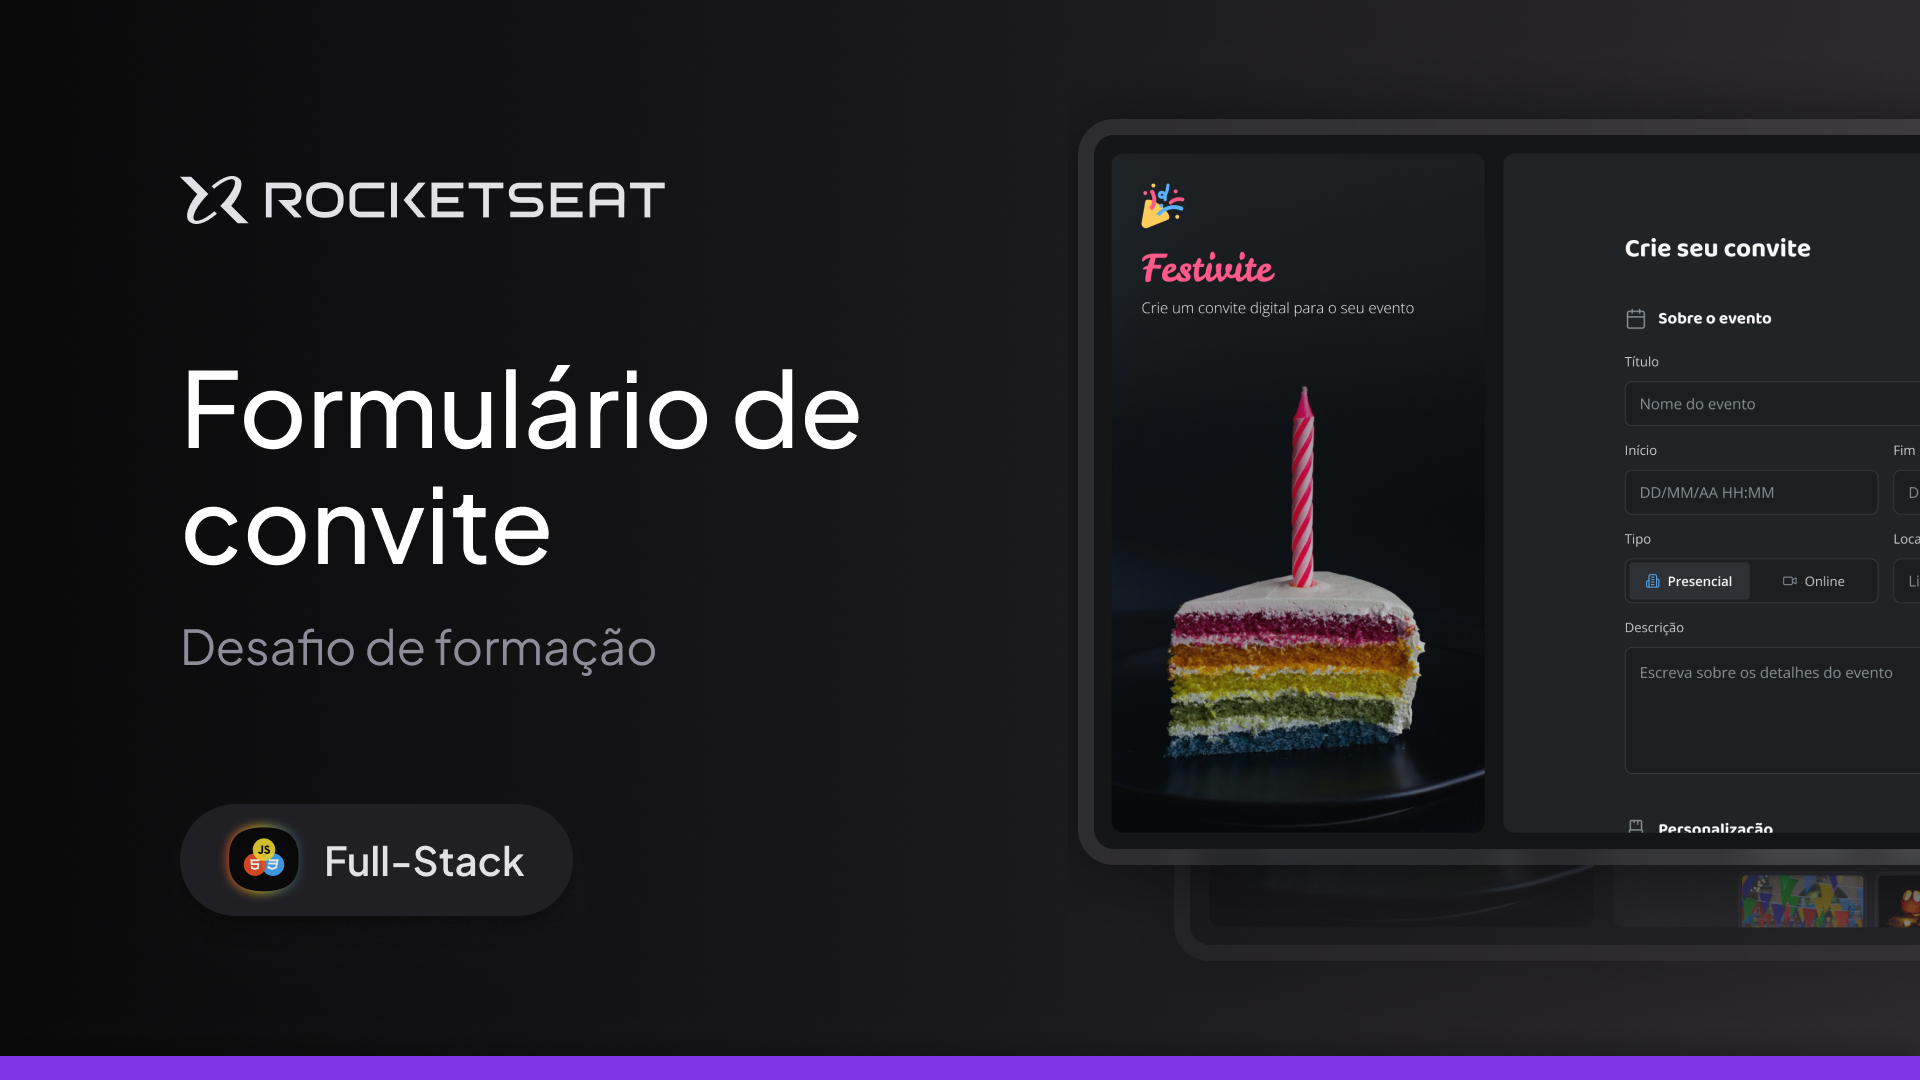
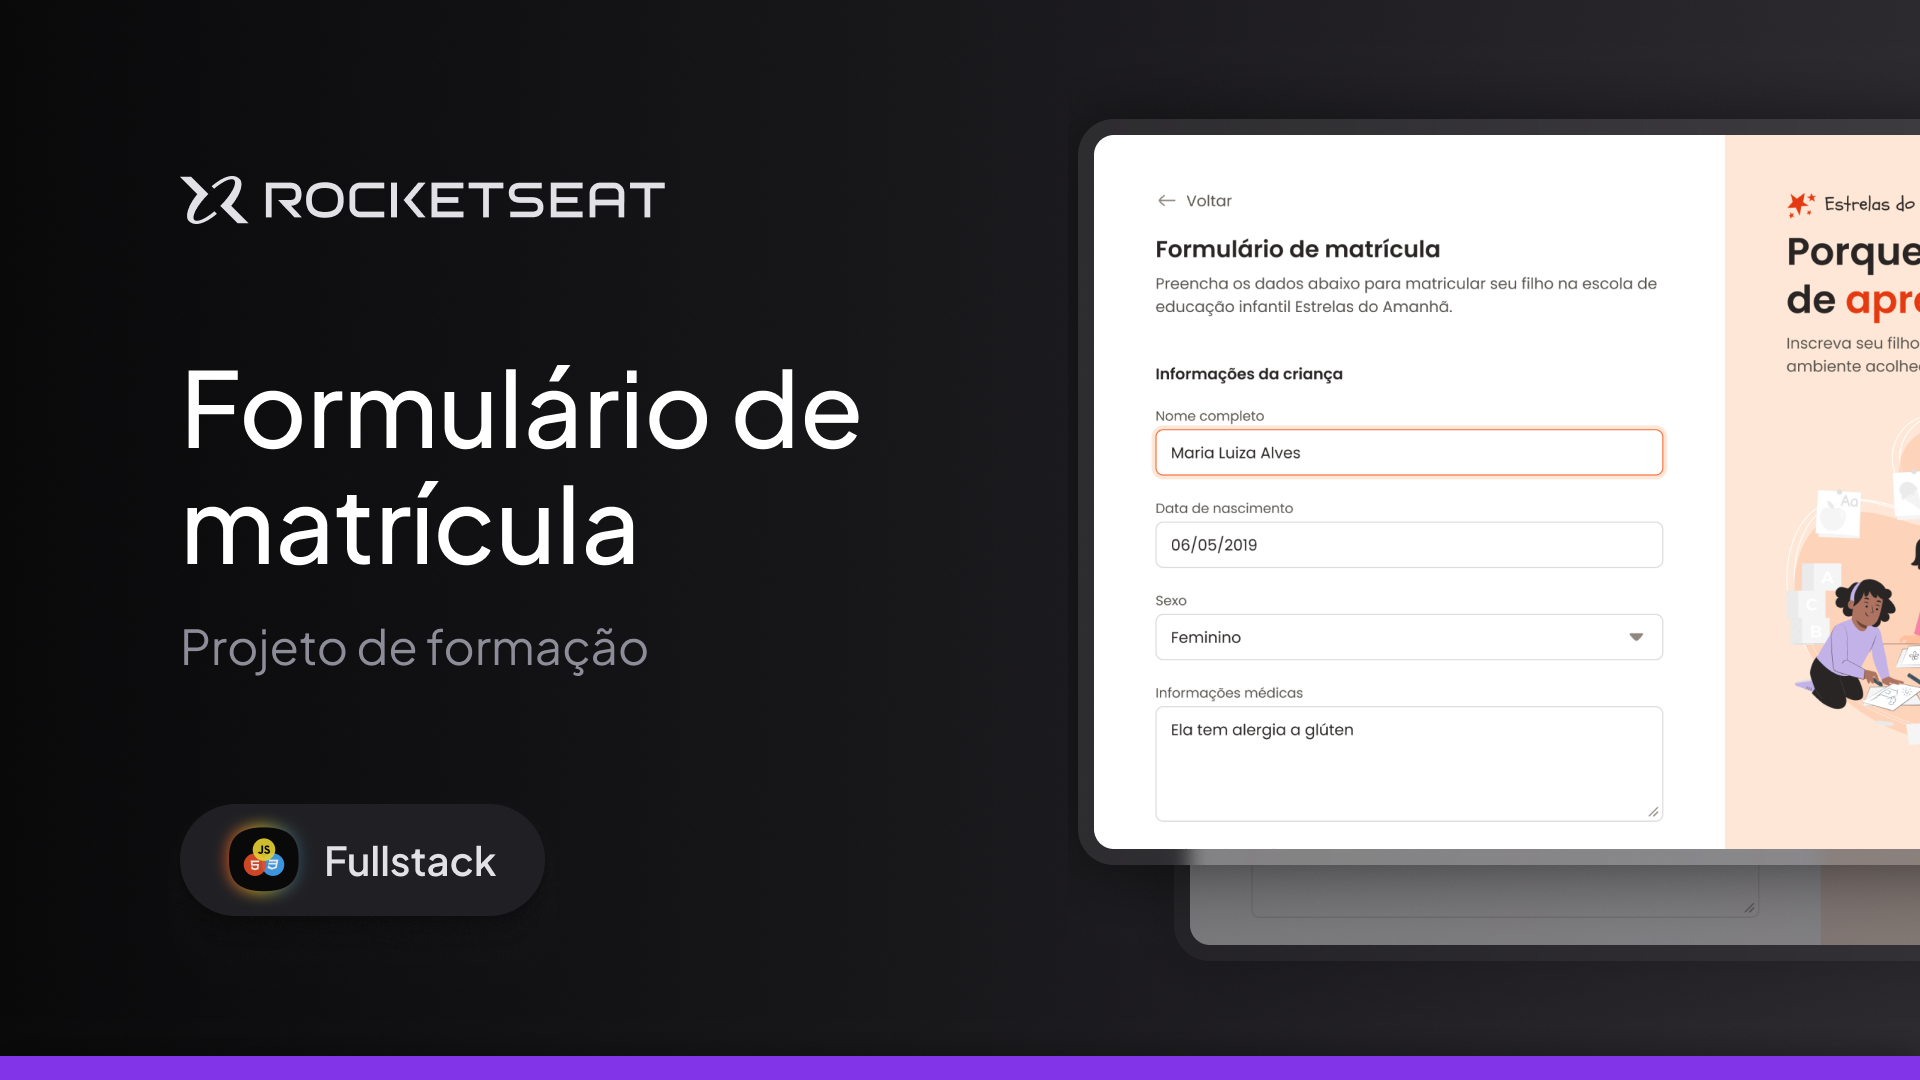
ajuste readme

diff --git a/01 - Trilha Full-stack/06 - formulario-de-matricula/README.md b/01 - Trilha Full-stack/06 - formulario-de-matricula/README.md
@@ -4,7 +4,7 @@
 
 
 <p align="center">
-Projeto de uma landing page de formulário de convite, desenvolvido durante as aulas sobre HTML e CSS.
+Projeto de uma landing page de formulário de matrícula, desenvolvido durante as aulas sobre HTML e CSS.
 </p>
 
 <p align="center">
@@ -32,5 +32,5 @@ Esse projeto foi desenvolvido com as seguintes tecnologias:
 
 ## Projeto
 
-O projeto é um site desktop de convite para evento com formulário para geração do convite personalizado.
-Esse é um desafio prático da formação Full-Stack, um dos conteúdos disponíveis para alunos da Rocketseat. 
+Nesse projeto você vai desenvolver um formulário desktop para uma escola de educação infantil. 
+Esse é um dos projetos desenvolvidos em aula na formação Full-stack, um de nossos conteúdos de especialização.
